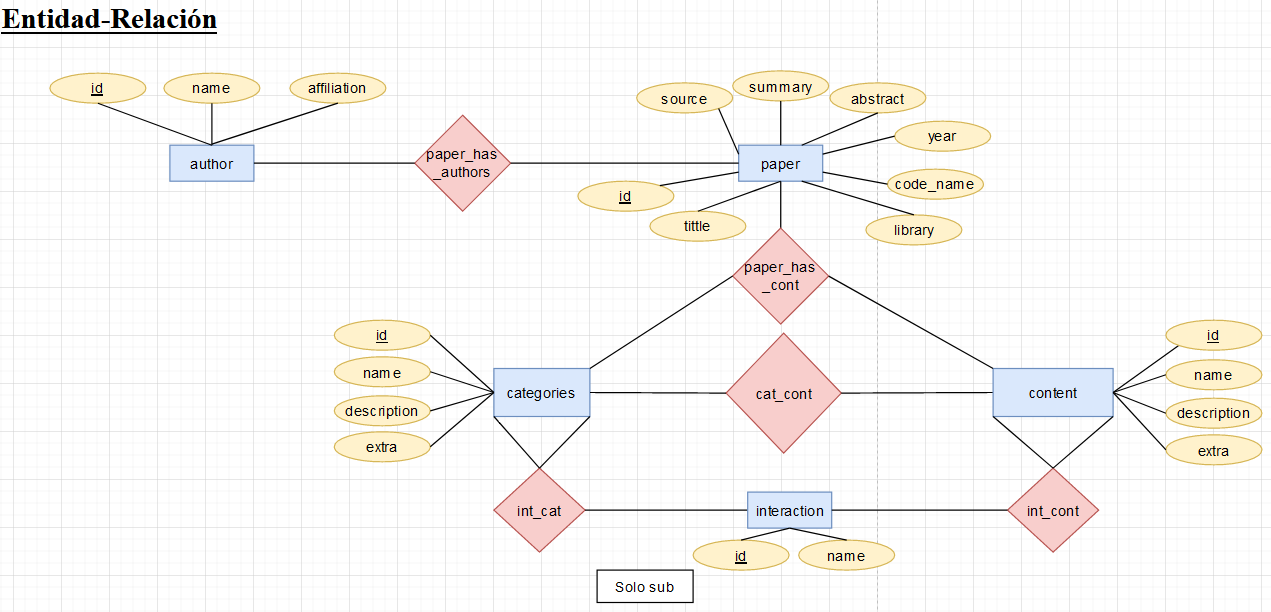
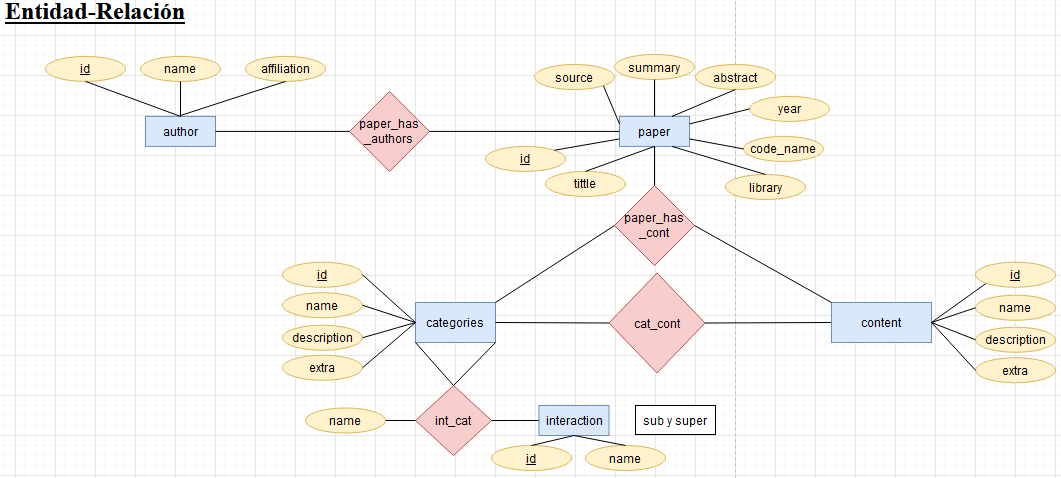
changes in the database
cambios en la base de datos acerca de las interacciones

diff --git a/app/db_config.py b/app/db_config.py
@@ -1,4 +1,4 @@
 __author__ = 'ivana'
 # This is the testing db
 db_config =  {'host': 'localhost', 'user': 'root',
-             'passwd': '', 'db': 'papers2'}
+             'passwd': '', 'db': 'papers'}
